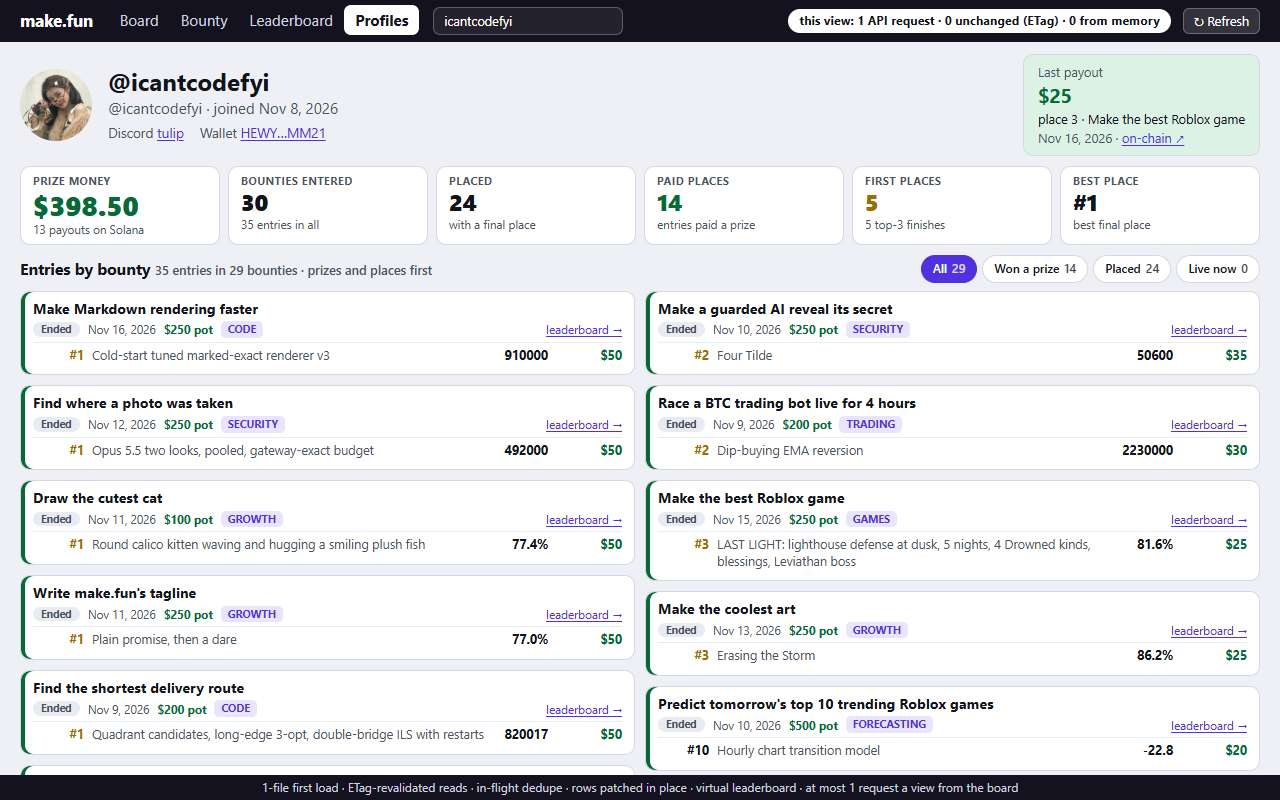
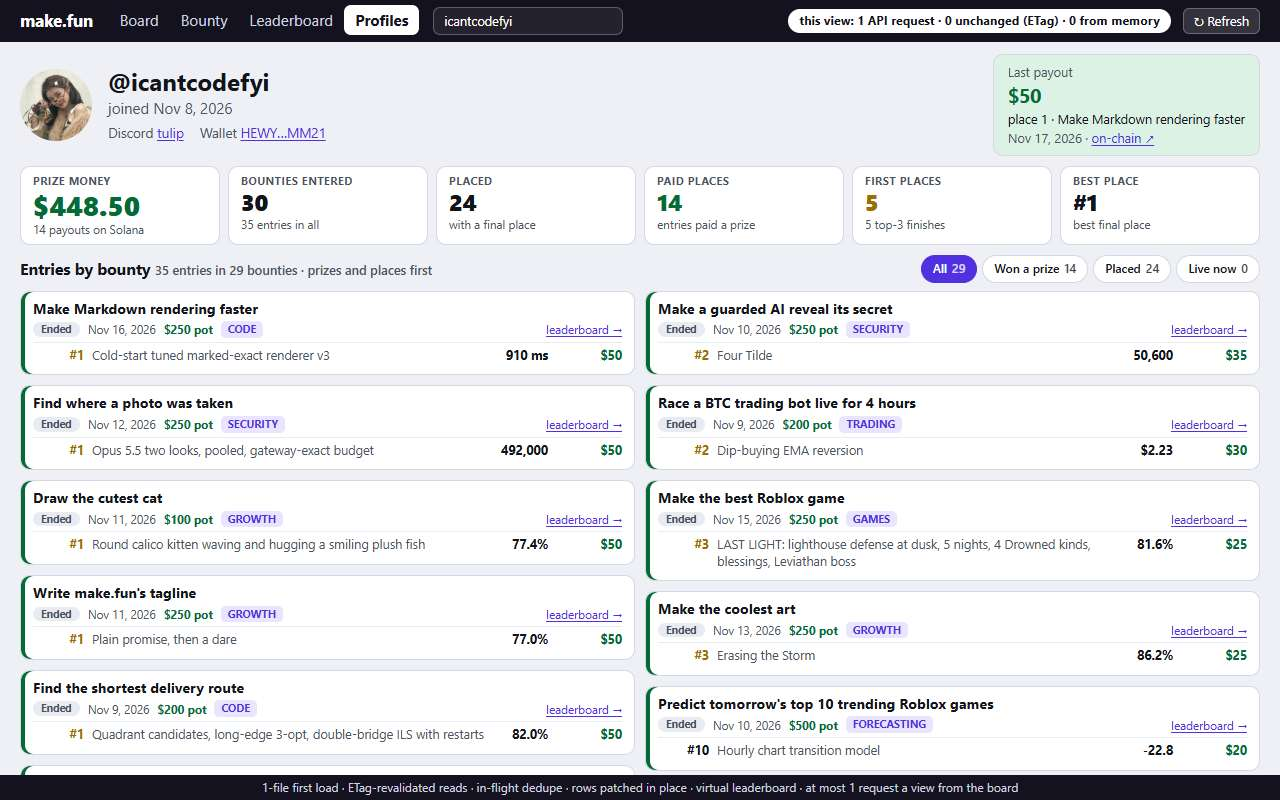
fix(app): unit-aware scores, phone leaderboard opens profiles, header fits phones
- formatScore reads the API's column title/source: rates and millionths as %,
  microseconds as ms, micro-USDC as dollars, lamports as SOL, separators.
- Under 900 px the entrant card is hidden and a row tap opens the profile.
- Refresh is an icon on phones and sits beside the Find a profile box.
- Profile header no longer repeats the handle when there is no display name.
- Screenshots retaken.

diff --git a/app/app.js b/app/app.js
@@ -87,7 +87,7 @@ function tickCountdownsInPlace() {
 function start() {
   adoptViewStyles(APP_CSS);
   const header = document.querySelector('header');
-  const refresh = el('button', { type: 'button', title: 'Re-read the live data with If-None-Match', onclick: revalidateEverythingAndRender }, '↻ Refresh');
+  const refresh = el('button', { type: 'button', title: 'Re-read the live data with If-None-Match', 'aria-label': 'Refresh', onclick: revalidateEverythingAndRender }, '↻', el('span', { className: 'refresh-label' }, ' Refresh'));
   const tabs = [['Board', '#/'], ['Bounty', '#/bounty'], ['Leaderboard', '#/leaderboard'], ['Profiles', '#/u']].map(([label, href]) => el('a', { href }, label));
   header.removeAttribute('style');
   header.replaceChildren(el('b', null, 'make.fun'), el('nav', null, tabs), mountProfileSearch(), apiPill, refresh);
@@ -283,11 +283,16 @@ export function formatTimeAgo(iso) {
   return seconds < 86400 ? `${Math.floor(seconds / 3600)}h ago` : `${Math.floor(seconds / 86400)}d ago`;
 }
 
-/** A score as its column means it: *_micro rates as a percentage, else the API's own display string. */
+/** A score as its column means it: *_micro rates and "millionths" as a percentage, µs as ms, micro-USDC as dollars, lamports as SOL, else the API's display with separators. */
 export function formatScore(value, display, column) {
   if (value == null && display == null) return '—';
-  if (column?.source?.endsWith('_micro') && Number.isFinite(Number(value))) return `${(Number(value) / 10_000).toFixed(1)}%`;
-  return display ?? String(value);
+  const number = Number(value ?? display), unit = `${column?.source || ''} ${column?.title || ''}`;
+  if (!Number.isFinite(number)) return display ?? String(value);
+  if (/_micro |millionths/.test(unit)) return `${(number / 10_000).toFixed(1)}%`;
+  if (/micro-USDC/.test(unit)) return `${number < 0 ? '−' : ''}$${(Math.abs(number) / 1e6).toFixed(2)}`;
+  if (/lamports/.test(unit)) return `${(number / 1e9).toFixed(2)} SOL`;
+  if (/µs/.test(unit)) return `${formatCount(Math.round(number / 1000))} ms`;
+  return Number.isInteger(number) ? formatCount(number) : display ?? String(value);
 }
 
 /** A stat card: a label above a prominent value, an optional note beneath. Text is written into the same nodes. */
@@ -446,7 +451,7 @@ th[scope=col]{background:var(--surface-2);color:var(--muted);font-size:.72rem;le
 .badge{display:none;margin-left:4px;padding:0 6px;border-radius:5px;background:var(--urgent-soft);color:var(--urgent);font-size:.68rem;font-style:normal;font-weight:800;text-transform:uppercase;vertical-align:1px}
 .tl:has([data-urgency=urgent]) .badge{display:inline-block}
 @media (max-width:900px){body>header{flex-wrap:wrap;row-gap:4px}}
-@media (max-width:640px){body>header form{order:9;flex:1 1 100%}.find-profile{width:100%;box-sizing:border-box;margin:0}body>header{flex-wrap:wrap;row-gap:4px;font-size:14px}body>header b{margin-right:2px}@media (max-width:430px){body>header b{display:none}}nav a{padding:5px 7px}.api-pill{font-size:.7rem;padding:2px 8px}.stat-row{grid-template-columns:repeat(2,minmax(0,1fr))}.stat-value{font-size:1.3rem}.stat-pot .stat-value{font-size:1.5rem}.panel{padding:12px}h1{font-size:1.35rem}}
+@media (max-width:640px){.refresh-label{display:none}body>header form{order:9;flex:1 1 200px}body>header button{order:10}.find-profile{width:100%;box-sizing:border-box;margin:0}body>header{flex-wrap:wrap;row-gap:4px;font-size:14px}body>header b{margin-right:2px}@media (max-width:430px){body>header b{display:none}}nav a{padding:5px 7px}.api-pill{font-size:.7rem;padding:2px 8px}.stat-row{grid-template-columns:repeat(2,minmax(0,1fr))}.stat-value{font-size:1.3rem}.stat-pot .stat-value{font-size:1.5rem}.panel{padding:12px}h1{font-size:1.35rem}}
 `;
 
 start();

diff --git a/app/leaderboard.js b/app/leaderboard.js
@@ -96,7 +96,7 @@ export async function mountLeaderboardView(root, { slug }, route) {
   const rail = matchMedia('(min-width:1180px)').matches ? mountBoardTable(view.rail, { currentSlug: slug, compact: true, mini: true, route }) : null;
   const scheduleVirtualise = oncePerFrame(virtualiseLeaderboardRows.bind(null, view));
   view.search.addEventListener('input', () => filterRowsOnEachKeystroke(view));
-  view.spacer.addEventListener('click', (event) => event.target.closest('a') || selectEntrantInPlace(view, rowEntry(view, event.target)));
+  view.spacer.addEventListener('click', (event) => event.target.closest('a') || openOrSelectEntrant(view, rowEntry(view, event.target)));
   view.spacer.addEventListener('keydown', (event) => moveSelectionWithKeys(view, event));
   const onBoard = route.whenCurrent((fresh) => applyLeaderboardData(view, slug, fresh));
   const onBounty = route.whenCurrent((fresh) => applyBountyData(view, fresh));
@@ -165,6 +165,12 @@ function applyLeaderboardData(view, slug, board) {
   setText(view.phase.note, board.phase?.placements_held ? 'places unofficial for now' : 'places final');
   filterRowsOnEachKeystroke(view);
   selectEntrantInPlace(view, rows.find((row) => row.id === view.state.selectedId) || rows[0]);
+}
+
+/** Desktop: select the row into the card. Phone (the card is hidden there): open the entrant's profile. */
+function openOrSelectEntrant(view, entry) {
+  if (!view.card.node.offsetParent && entry?.handle) location.hash = profileHref(entry.handle);
+  else selectEntrantInPlace(view, entry);
 }
 
 const rowEntry = (view, target) => view.rowPool.find((pooled) => pooled.row.contains(target))?.entry;
@@ -352,6 +358,6 @@ adoptViewStyles(`
 .ec-band b{position:absolute;top:-3px;left:calc(var(--at) - 2px);width:4px;height:14px;border-radius:2px;background:var(--accent)}
 .ec-profile{margin-top:2px}
 .ec-hint{margin:0;font-size:.74rem}
-@media (max-width:899px){.lb-page{grid-template-columns:minmax(0,1fr)}.entrant-card{order:-1}.ec-facts{grid-template-columns:repeat(2,minmax(0,1fr));column-gap:12px}.ec-hint{display:none}}
-@media (max-width:640px){.lb-row{grid-template-columns:1.8rem minmax(0,1fr) 5rem 4.2rem;gap:6px;padding:0 8px}.col-record,.col-received{display:none}.col-rank{font-size:1rem}.lb-main .subtabs{display:none}.lb-main .stat-row{grid-template-columns:repeat(2,minmax(0,1fr))}}
+@media (max-width:899px){.lb-page{grid-template-columns:minmax(0,1fr)}.entrant-card{display:none}}
+@media (max-width:640px){.lb-row{grid-template-columns:1.8rem minmax(0,1fr) 5rem 4.2rem;gap:6px;padding:0 8px}.col-record,.col-received{display:none}.col-rank{font-size:1rem}.lb-main .subtabs{display:none}.lb-head{font-size:.6rem;letter-spacing:0}.lb-head .col-score small{display:none}.lb-head .col-prize,.lb-head .col-rank{font-size:.6rem}.lb-head>*{white-space:normal;line-height:1.1}.lb-main .stat-row{grid-template-columns:repeat(2,minmax(0,1fr))}}
 `);

diff --git a/app/profile.js b/app/profile.js
@@ -26,7 +26,7 @@ export async function mountProfileView(root, { handle }, route) {
   patchCardInPlace(cards[3], formatCount(paid.length), 'entries paid a prize');
   patchCardInPlace(cards[4], formatCount(record.competitions_won ?? 0), `${record.podium_finishes ?? 0} top-3 finishes`);
   patchCardInPlace(cards[5], record.best_placement ? `#${formatCount(record.best_placement)}` : '—', 'best final place');
-  const identity = [`@${profile.handle}`, profile.house && 'house account', profile.joined_at && `joined ${formatDate(profile.joined_at)}`].filter(Boolean).join(' · ');
+  const identity = [profile.display_name && `@${profile.handle}`, profile.house && 'house account', profile.joined_at && `joined ${formatDate(profile.joined_at)}`].filter(Boolean).join(' · ');
   const links = profileLinks(profile).map(([label, href, text]) => el('li', null, el('span', { className: 'muted' }, `${label} `), el('a', { href, target: '_blank', rel: 'noopener noreferrer' }, text)));
   const grid = el('div', { className: 'bounty-cards' });
   const more = el('button', { type: 'button', className: 'button show-more' });
@@ -56,7 +56,7 @@ export async function mountProfileView(root, { handle }, route) {
         'header',
         { className: 'profile-header' },
         avatarImage(absoluteAssetUrl(profile.avatar?.url || profile.image), profile.handle, 72),
-        el('div', { className: 'profile-identity' }, el('h1', { tabIndex: -1 }, profile.display_name || `@${profile.handle}`), el('p', { className: 'muted' }, identity), profile.bio && el('p', { className: 'profile-bio' }, profile.bio), links.length > 0 && el('ul', { className: 'profile-links' }, links)),
+        el('div', { className: 'profile-identity' }, el('h1', { tabIndex: -1 }, profile.display_name || `@${profile.handle}`), identity && el('p', { className: 'muted' }, identity), profile.bio && el('p', { className: 'profile-bio' }, profile.bio), links.length > 0 && el('ul', { className: 'profile-links' }, links)),
         payouts[0] && buildLastPayout(payouts[0]),
       ),
       el('dl', { className: 'stat-row profile-stats' }, cards.map((card) => card.node)),
